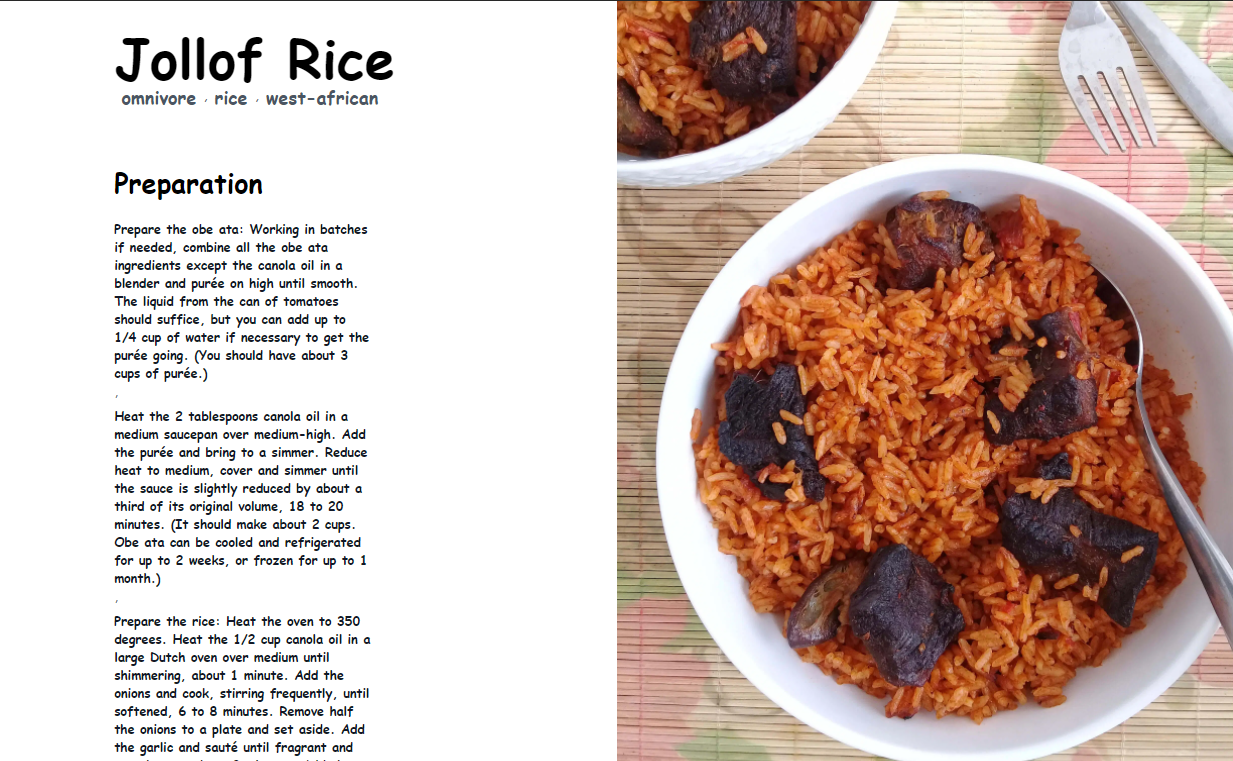
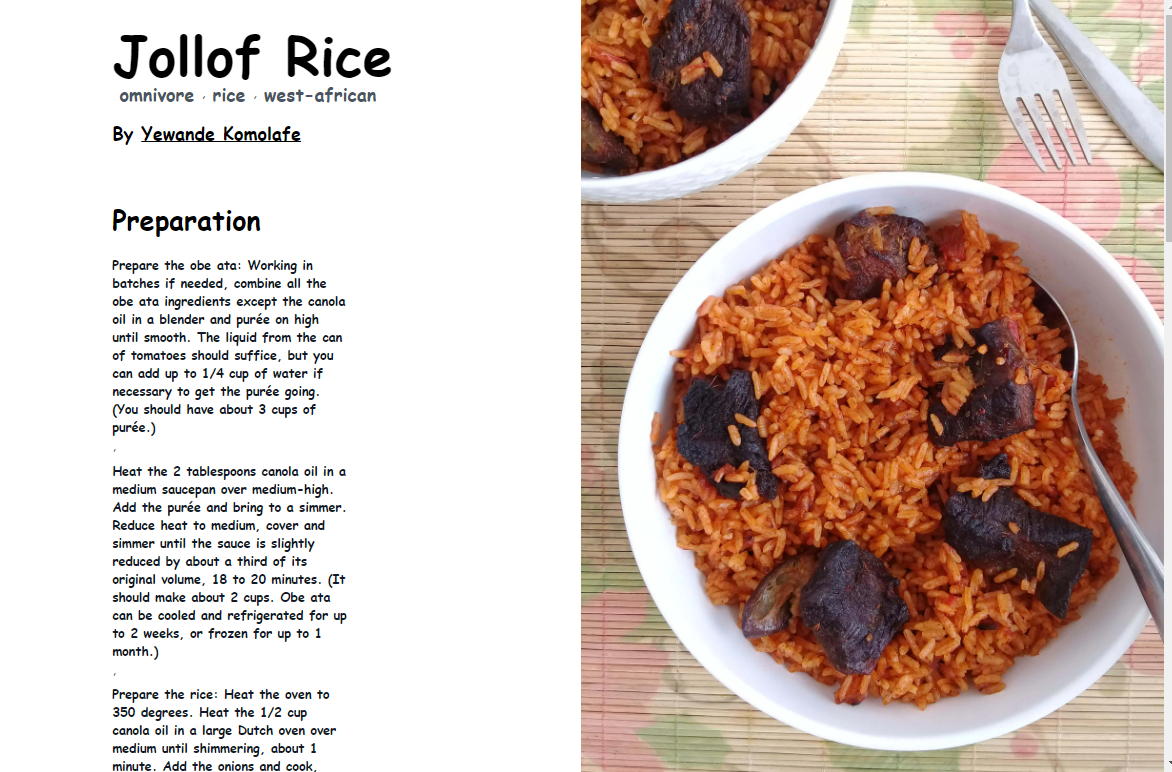
add credit for recipes

diff --git a/detail.html b/detail.html
@@ -24,41 +24,48 @@
   </head>
   <body>
     <div class="main"></div>
-    <script>
+    <script defer>
       import * as model from './src/js/model.js';
 
       const main = document.querySelector('.main');
-      console.log(main);
       function showRecipe() {
         const id = window.location.hash.slice(1);
         const currentRecipe = model.state.recipes[id];
         const markup = `
     <div class="flex flex-wrap md bg-white items-center">
     <div class="bg-white w-full md:w-1/2 h-full">
-      <div class="mx-32">
-        <h1 class="text-6xl text-black font-bold mt-8">${currentRecipe.name}</h1>
+      <div class="mx-32 mb-16">
+        <h1 class="text-6xl text-black font-bold mt-8">${
+          currentRecipe.name
+        }</h1>
      
         <div class="flex font-light text-gray-500">
         ${currentRecipe.tags.map(tag => {
           return `<p class="text-xl text-gray-600 font-semibold px-2"> ${tag} </p>`;
         })}
         </div>
+        <p class="text-xl text-black font-bold my-4"> By 
+          <a class="underline" target="_blank" href=${currentRecipe.publisher.social}> ${currentRecipe.publisher.name} </a>
+           </p>
 
         <div
           class="description w-full sm: md:w-2/3 mt-16 text-gray-500 text-sm"
         >
-        <h2 class="text-3xl text-black font-bold my-4"> Preparation </h2>
+        <h3 class="text-3xl text-black font-bold my-4"> Preparation </h3>
         ${currentRecipe.preparation.map(step => {
-          return` 
+          return ` 
             <p class="text-sm text-gray-900 font-semibold pt-2">${step}</p>
           `;
         })}
         </div>
-        <div>
+        <div class="description w-full sm: md:w-2/3 mt-16 text-gray-500 text-sm">
           <h2 class="text-3xl text-black font-bold my-4"> Ingredients </h2>
+          <p class="text-md text-black font-bold my-4"> Serves: 
+          <a class="underline" target="_blank" href="#"> ${currentRecipe.servings} </a>
+           </p>
           <div>
           ${currentRecipe.ingredients.map(ing => {
-            return `<li class="text-xs text-gray-900 font-semibold pt-2">${ing}</li>`;
+            return `<li class="text-md text-gray-900 font-semibold pt-2">${ing}</li>`;
           })}
           </div>
         </div>
@@ -67,7 +74,8 @@
     </div>
     
     <div class="w-full md:w-1/2 absolute inset-y-0 right-0">
-      <img
+
+          <img
         id="recipe-image"
         src=${currentRecipe.images[0]}
         class="w-full object-cover"

diff --git a/src/js/controller.js b/src/js/controller.js
@@ -13,26 +13,29 @@ const regionsDiv = document.querySelector('#recipes-region__div');
 const dietDiv = document.querySelector('#diet__div');
 const loadButton = document.querySelector('#load-more');
 
-
 let currentPage = 1;
 
 const getPageData = page => {
   let start = (page - 1) * config.PAGE_NUMBER_COUNT;
   let end = page * config.PAGE_NUMBER_COUNT;
 
-  if(end >= model.state.recipes.length) loadButton.classList.add('hidden')
+  if (end >= model.state.recipes.length) loadButton.classList.add('hidden');
   return model.state.recipes.slice(start, end);
 };
 
 const changePage = () => {
-  currentPage++
-  renderingAllRecipes(recipeContainer, getPageData(currentPage), '-all','beforeend')
+  currentPage++;
+  renderingAllRecipes(
+    recipeContainer,
+    getPageData(currentPage),
+    '-all',
+    'beforeend'
+  );
 };
 
 loadButton.addEventListener('click', changePage);
 
-
-const renderingAllRecipes = (location, data, type,position='afterbegin') => {
+const renderingAllRecipes = (location, data, type, position = 'afterbegin') => {
   data.forEach((recipe, index) => {
     const markup = ` <div id=recipe data-id=${index} class="slide${type} mr-4 backdrop w-10/12 md:w-1/4 hover:bg-transparent cursor-pointer bg-white bg-opacity-10 rounded  text-white border border-gray-300 shadow-lg">
     <a href="/detail.html#${recipe.id}">
@@ -163,5 +166,5 @@ const renderTags = (data, location, type) => {
     location.insertAdjacentHTML('afterbegin', markup);
   });
 };
-renderTags(model.state.region.slice(0, 3), regionsDiv, '-region');
-renderTags(model.state.diet.slice(0, 3), dietDiv, '-diet');
+renderTags(model.state.region.slice(0, 4), regionsDiv, '-region');
+renderTags(model.state.diet.slice(0, 4), dietDiv, '-diet');
